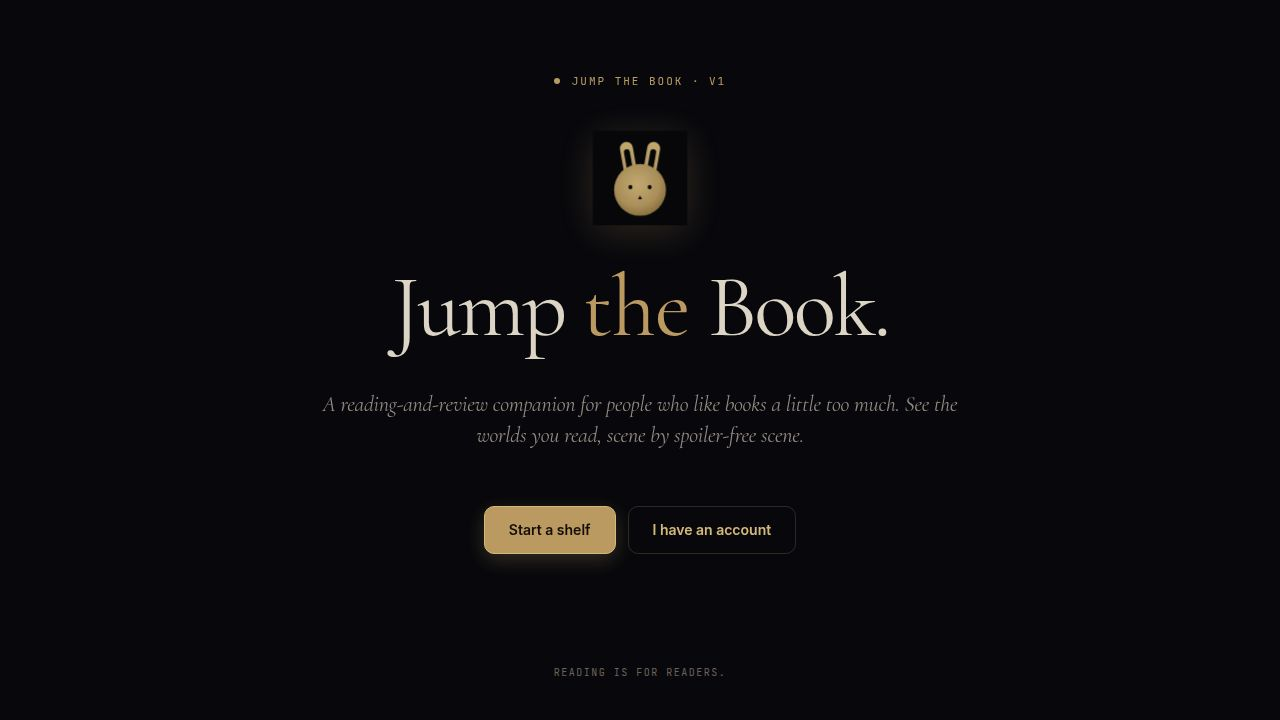
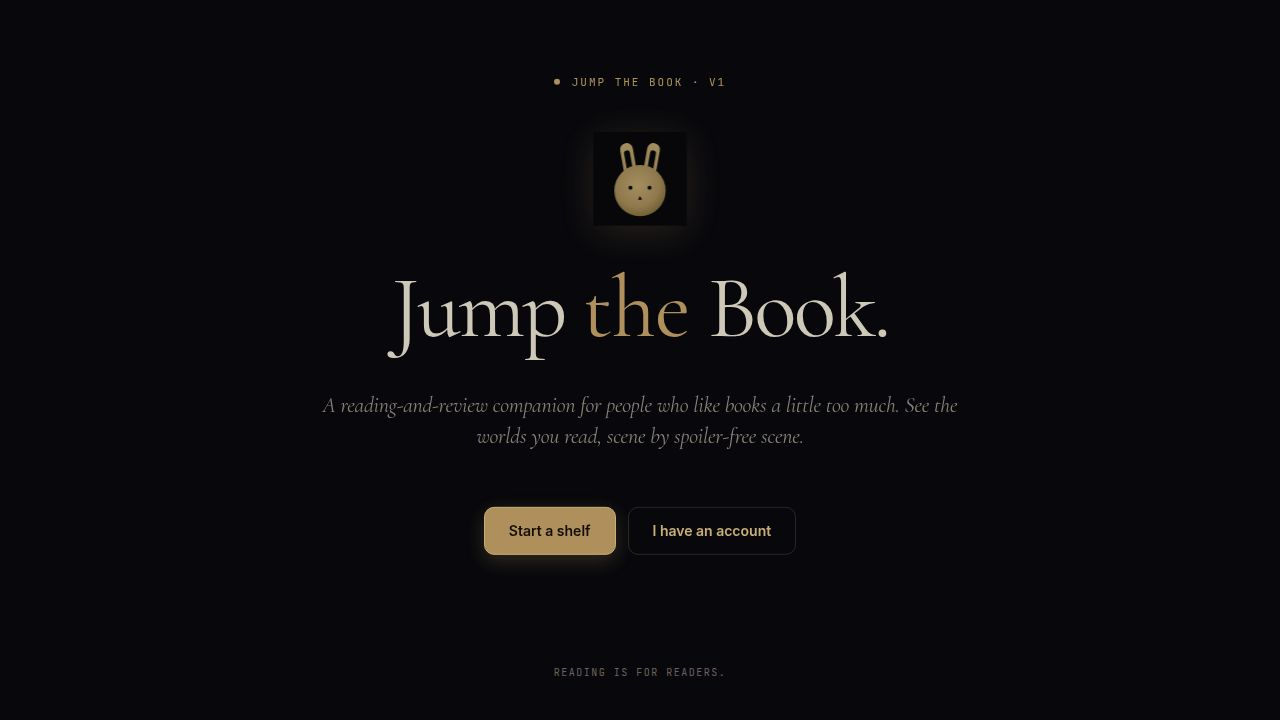
Update navigation and user flow for a better mobile experience
This commit introduces a mobile-first navigation overhaul with a new bottom tab bar and implements state-based redirects for signed-in users. It also addresses a performance issue by pinning the pnpm version and capping esbuild parallelism.

Replit-Commit-Author: Agent
Replit-Commit-Session-Id: 481040e0-ff6b-49f7-ae90-43c3053e3f2e
Replit-Commit-Checkpoint-Type: full_checkpoint
Replit-Commit-Event-Id: 570f4aa2-38dc-4c43-8218-9cb81c2ac05d
Replit-Commit-Screenshot-Url: https://storage.googleapis.com/screenshot-production-us-central1/245aaa79-aa29-45b1-84b5-d898c69785f7/481040e0-ff6b-49f7-ae90-43c3053e3f2e/0oSYJ1o
Replit-Helium-Checkpoint-Created: true

diff --git a/artifacts/jump-the-book-web/src/components/bottom-nav.tsx b/artifacts/jump-the-book-web/src/components/bottom-nav.tsx
@@ -1,0 +1,78 @@
+import { Link, useLocation } from "wouter";
+import { BookOpen, Library, Compass, Plus } from "lucide-react";
+import { cn } from "@/lib/utils";
+
+interface NavItem {
+  href: string;
+  label: string;
+  icon: typeof BookOpen;
+  matchPrefixes?: string[];
+}
+
+const ITEMS: NavItem[] = [
+  {
+    href: "/now-reading",
+    label: "Now Reading",
+    icon: BookOpen,
+    matchPrefixes: ["/now-reading", "/experience", "/comic", "/playback"],
+  },
+  {
+    href: "/library",
+    label: "Bookshelf",
+    icon: Library,
+    matchPrefixes: ["/library", "/book", "/position"],
+  },
+  {
+    href: "/discover",
+    label: "Discover",
+    icon: Compass,
+    matchPrefixes: ["/discover"],
+  },
+  {
+    href: "/upload",
+    label: "Add",
+    icon: Plus,
+    matchPrefixes: ["/upload", "/setup-book", "/generate"],
+  },
+];
+
+export default function BottomNav() {
+  const [location] = useLocation();
+
+  const isActive = (item: NavItem) => {
+    const prefixes = item.matchPrefixes ?? [item.href];
+    return prefixes.some((p) => location === p || location.startsWith(`${p}/`) || location.startsWith(`${p}?`));
+  };
+
+  return (
+    <nav
+      aria-label="Primary"
+      className="sm:hidden fixed bottom-0 inset-x-0 z-[60] border-t border-border/40 bg-background/95 backdrop-blur supports-[backdrop-filter]:bg-background/80 pb-[env(safe-area-inset-bottom)]"
+    >
+      <ul className="grid grid-cols-4">
+        {ITEMS.map((item) => {
+          const Icon = item.icon;
+          const active = isActive(item);
+          return (
+            <li key={item.href}>
+              <Link
+                href={item.href}
+                className={cn(
+                  "flex flex-col items-center justify-center gap-1 py-2.5 px-1 text-[10px] font-medium tracking-wide transition-colors",
+                  "focus-visible:outline-none focus-visible:ring-2 focus-visible:ring-[var(--jtb-accent-hi)]/60 focus-visible:ring-inset",
+                  active
+                    ? "text-[var(--jtb-accent-hi)]"
+                    : "text-muted-foreground hover:text-foreground/80",
+                )}
+                aria-current={active ? "page" : undefined}
+              >
+                <Icon className={cn("w-5 h-5", active && "drop-shadow-[0_0_6px_rgba(201,169,106,0.4)]")} aria-hidden />
+                <span className="leading-none">{item.label}</span>
+              </Link>
+            </li>
+          );
+        })}
+      </ul>
+    </nav>
+  );
+}

diff --git a/artifacts/jump-the-book-web/src/components/layout.tsx b/artifacts/jump-the-book-web/src/components/layout.tsx
@@ -14,6 +14,7 @@ import {
 } from "@/components/ui/dropdown-menu";
 import { Button } from "@/components/ui/button";
 import StreakBadge from "@/components/streak-badge";
+import BottomNav from "@/components/bottom-nav";
 import { cn } from "@/lib/utils";
 
 interface LayoutProps {
@@ -98,6 +99,12 @@ function UserMenu() {
             Account &amp; preferences
           </Link>
         </DropdownMenuItem>
+        <DropdownMenuItem asChild>
+          <Link href="/help">
+            <UserIcon className="w-4 h-4 mr-2" />
+            Help
+          </Link>
+        </DropdownMenuItem>
         <DropdownMenuSeparator />
         <DropdownMenuItem
           onClick={() => signOut({ redirectUrl: basePath || "/" })}
@@ -165,7 +172,10 @@ export default function Layout({ children, hideNav = false }: LayoutProps) {
               Book
             </span>
           </Link>
-          <nav className="flex items-center gap-4 sm:gap-6 text-sm font-medium overflow-x-auto no-scrollbar min-w-0">
+          {/* Top nav links: hidden on mobile (bottom tabs handle that). On
+              tablet+ the horizontal nav returns. Help moves out of primary
+              nav and into the avatar dropdown to reduce clutter. */}
+          <nav className="hidden sm:flex items-center gap-6 text-sm font-medium overflow-x-auto no-scrollbar min-w-0">
             <Link
               href="/now-reading"
               className={cn(
@@ -212,19 +222,7 @@ export default function Layout({ children, hideNav = false }: LayoutProps) {
                 "shrink-0",
               )}
             >
-              Upload
-            </Link>
-            <Link
-              href="/help"
-              className={cn(
-                "transition-colors hover:text-foreground/80",
-                location?.startsWith("/help")
-                  ? "text-foreground"
-                  : "text-foreground/60",
-                "shrink-0",
-              )}
-            >
-              Help
+              Add
             </Link>
           </nav>
           <div className="ml-auto flex items-center gap-2 sm:gap-3 shrink-0">
@@ -251,7 +249,12 @@ export default function Layout({ children, hideNav = false }: LayoutProps) {
           </div>
         </div>
       </header>
-      <main className="flex-1 flex flex-col">{children}</main>
+      {/* Bottom padding on mobile so content isn't covered by the bottom
+          tab bar (≈64px nav + safe-area inset). */}
+      <main className="flex-1 flex flex-col pb-[calc(64px+env(safe-area-inset-bottom))] sm:pb-0">
+        {children}
+      </main>
+      <BottomNav />
     </div>
   );
 }

diff --git a/artifacts/jump-the-book-web/src/pages/library.tsx b/artifacts/jump-the-book-web/src/pages/library.tsx
@@ -210,14 +210,21 @@ export default function Library() {
 
   return (
     <Layout>
-      <div className="container max-w-6xl mx-auto px-4 py-10 md:py-12 space-y-10 md:space-y-12">
-        <WelcomeHero nowReading={nowReading} totalBooks={userLibrary.length} />
+      <div className="container max-w-6xl mx-auto px-4 py-6 sm:py-10 md:py-12 space-y-8 sm:space-y-10 md:space-y-12">
+        {/* WelcomeHero is desktop-only — on mobile the slim top bar plus
+            the bottom tab nav already orient the user, so a giant greeting
+            block above the bookshelf is just clutter. */}
+        <div className="hidden sm:block">
+          <WelcomeHero nowReading={nowReading} totalBooks={userLibrary.length} />
+        </div>
 
         {nowReading && (
-          <NowReadingHero
-            book={nowReading}
-            latestScene={latestSceneForNowReading}
-          />
+          <div className="hidden sm:block">
+            <NowReadingHero
+              book={nowReading}
+              latestScene={latestSceneForNowReading}
+            />
+          </div>
         )}
 
         <ReadingStats nowReading={nowReading} />

diff --git a/artifacts/jump-the-book-web/src/App.tsx b/artifacts/jump-the-book-web/src/App.tsx
@@ -43,6 +43,7 @@ import Discover from "@/pages/discover";
 import Account from "@/pages/account";
 import SceneShare from "@/pages/scene-share";
 import NowReading from "@/pages/now-reading";
+import { useLibrary } from "@/lib/library";
 
 // In production the Clerk proxy runs on the current host; derive the
 // publishable key from window.location so the same build serves multiple
@@ -197,6 +198,7 @@ function HomeRedirect() {
 
 function SignedInHome() {
   const { data, isLoading } = useRemoteUser();
+  const { userLibrary } = useLibrary();
   if (isLoading) {
     return (
       <div className="flex min-h-[100dvh] items-center justify-center bg-background dark text-foreground">
@@ -205,7 +207,18 @@ function SignedInHome() {
     );
   }
   if (!data?.onboarded) return <Redirect to="/onboarding" />;
-  return <Redirect to="/now-reading" />;
+
+  // State-based landing: send users to the place that's most useful for
+  // their current state, instead of always dumping them on Now Reading
+  // (which is empty for users who haven't started anything yet).
+  const hasAnyBooks = userLibrary.length > 0;
+  const hasReadingBook = userLibrary.some(
+    (b) => (b.readingStatus ?? "reading") === "reading" && (b.progress ?? 0) < 100,
+  );
+
+  if (hasReadingBook) return <Redirect to="/now-reading" />;
+  if (hasAnyBooks) return <Redirect to="/library" />;
+  return <Redirect to="/upload" />;
 }
 
 function ProtectedRoute({ children }: { children: React.ReactNode }) {

diff --git a/replit.md b/replit.md
@@ -40,7 +40,9 @@ The project is structured as a pnpm workspace monorepo.
     *   **Orphan Scene Recovery:** `/api/me/orphan-scenes` identifies and allows claiming or deleting scenes whose parent book no longer exists.
     *   **Smart Book Setup Wizard (`/setup-book`):** A 4-step wizard for adding modern books, building a "bible" (context for AI), reviewing, and saving. Integrates with `POST /api/books/context/search`. Step 4 (series prompt) appears when a series is detected.
     *   **Now Reading Page (`/now-reading`):** Shows books with `reading` status, including progress bars, scene counts, latest scene preview, and generate shortcuts. Empty states for signed-out users and no-books.
-    *   **Bookshelf (`/library`):** Renamed from "Library" to "My Bookshelf". Features status tabs (All/Reading/Want to Read/Finished) with counts, scene counts on tiles, and reading status badges.
+    *   **Bookshelf (`/library`):** Renamed from "Library" to "My Bookshelf". Features status tabs (All/Reading/Want to Read/Finished) with counts, scene counts on tiles, and reading status badges. On mobile (`<sm`) the WelcomeHero/NowReadingHero blocks are hidden because the bottom tab bar already handles orientation; ReadingStats is always shown.
+    *   **Mobile-first navigation (Phase 1 UX overhaul):** A fixed bottom tab bar (`components/bottom-nav.tsx`) with 4 tabs — Now Reading / Bookshelf / Discover / Add — appears on mobile (`sm:hidden`, `z-[60]`, `pb-[env(safe-area-inset-bottom)]`). The horizontal top nav is hidden on mobile (`hidden sm:flex`) and Help moves into the avatar dropdown to reduce clutter. Main content has `pb-[calc(64px+env(safe-area-inset-bottom))]` on mobile to clear the bar.
+    *   **State-based home redirect:** `SignedInHome` in `App.tsx` reads `useLibrary()` and routes signed-in, onboarded users by state — has a reading book → `/now-reading`; has any books → `/library`; empty shelf → `/upload`. Replaces the previous always-`/now-reading` redirect that dropped fresh users on an empty page.
 
 2.  **Scene Generation and Viewing:**
     *   **AI Scene Generation:** `POST /api/scenes/generate` uses `@workspace/integrations-openai-ai-server` (gpt-5.4 + gpt-image-1) to create scenes.